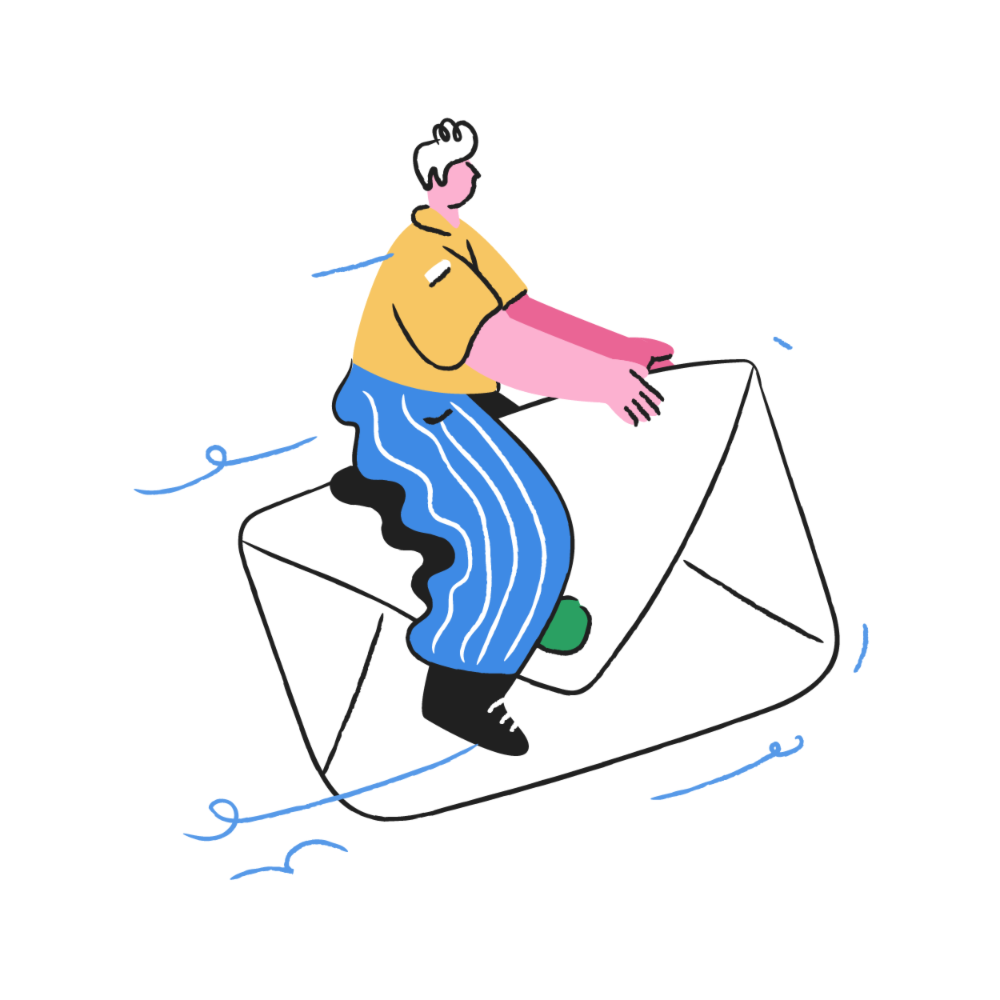
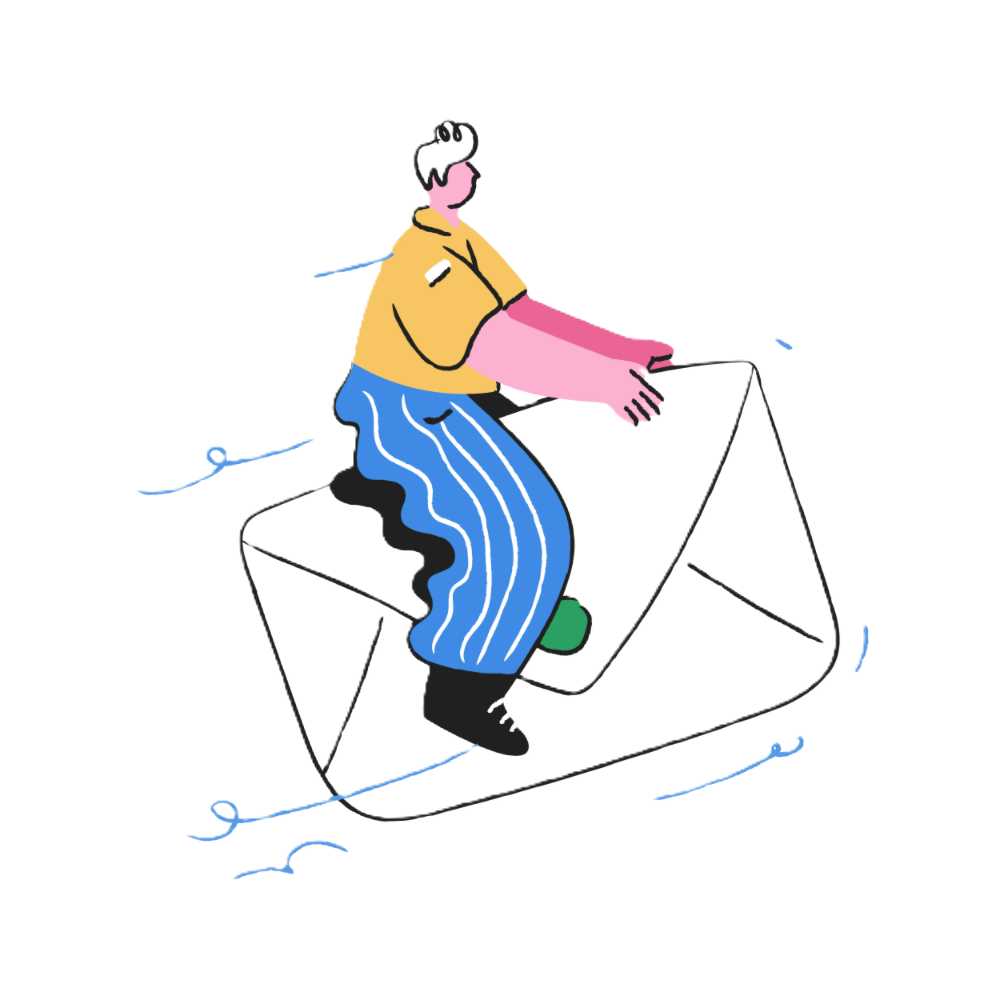
fix: dark mode support & dark mode picture

diff --git a/src/components/ToolboxPanel.vue b/src/components/ToolboxPanel.vue
@@ -146,7 +146,7 @@ export default {
   }
 }
 @media (prefers-color-scheme: dark) {
-  .bed-document-panel {
+  .bed-toolbox-panel {
     .container {
       background: $primary-bgcolor-dark;
       &::-webkit-scrollbar-thumb {
